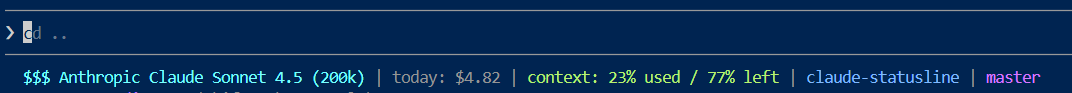
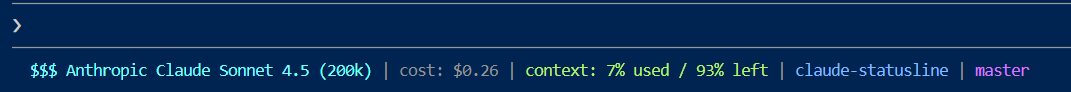
Update screenshot and clarify cost display in README
Changed cost label from "today: $X.XX" to "costs: $X.XX" and updated description to reflect session costs rather than daily Foundry costs.

diff --git a/README.md b/README.md
@@ -5,12 +5,12 @@
 A custom status line for [Claude Code](https://claude.ai/code) in Windows that shows:
 
 ```
-Claude Sonnet 4.6 (200k)  |  today: $4.44  |  context: 21% used / 79% left  |  DQX | main
+Claude Sonnet 4.6 (200k)  |  costs: $1.24  |  context: 21% used / 79% left  |  DQX | main
 ^^^ cyan                      ^^^ gray          ^^^ green                        ^blue^ ^magenta^
 ```
 
 - **Model + context window size** — size read dynamically from the Claude Code payload (cyan)
-- **Daily Foundry costs** — today's spend from your Anthropic Foundry instance (gray, optional)
+- **Instance costs** — Instance costs in USD (gray, optional)
 - **Context usage** — % used and % remaining, color-coded:
   - **Green** when < 50% used
   - **Yellow** when 50-75% used
